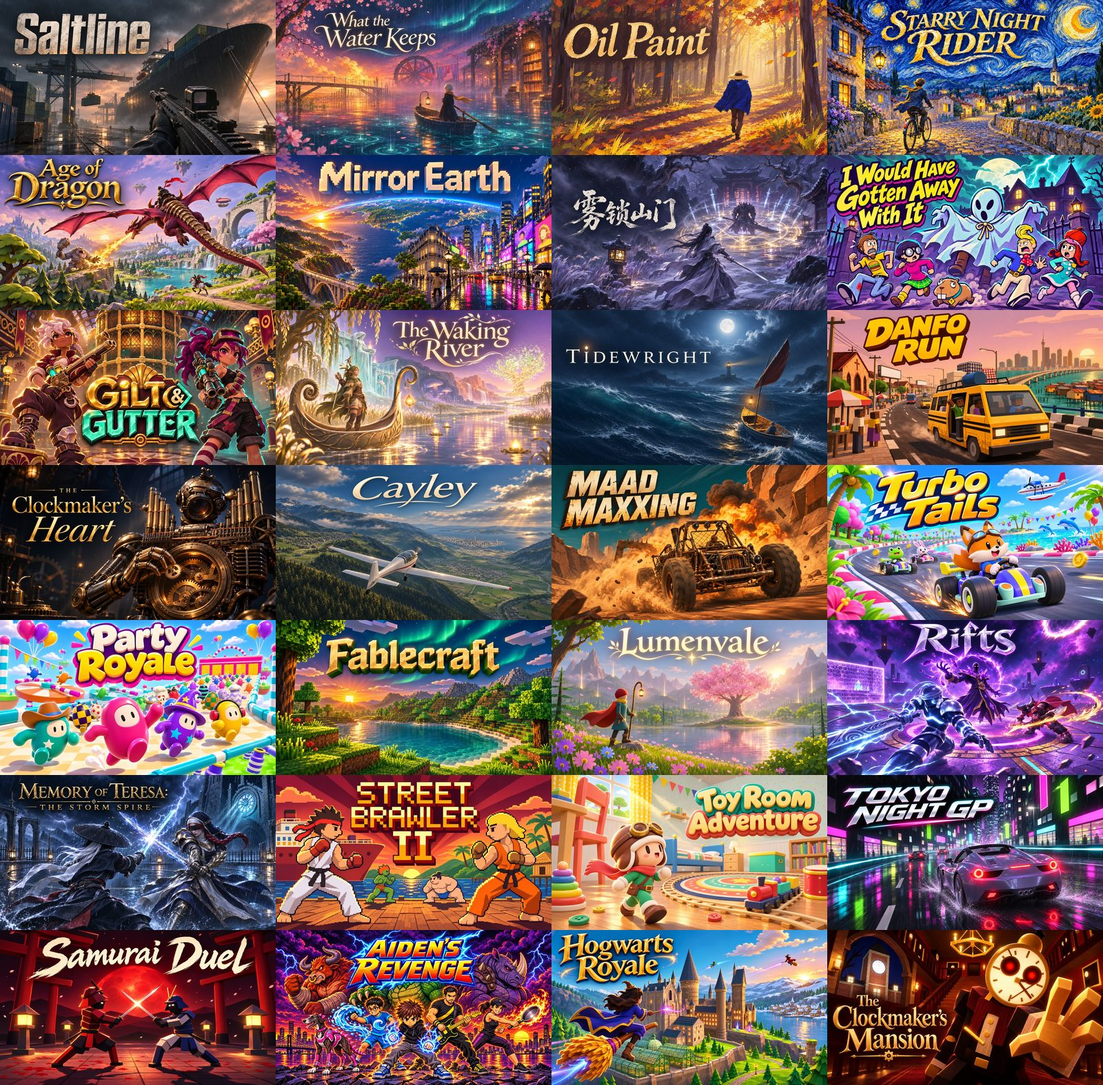
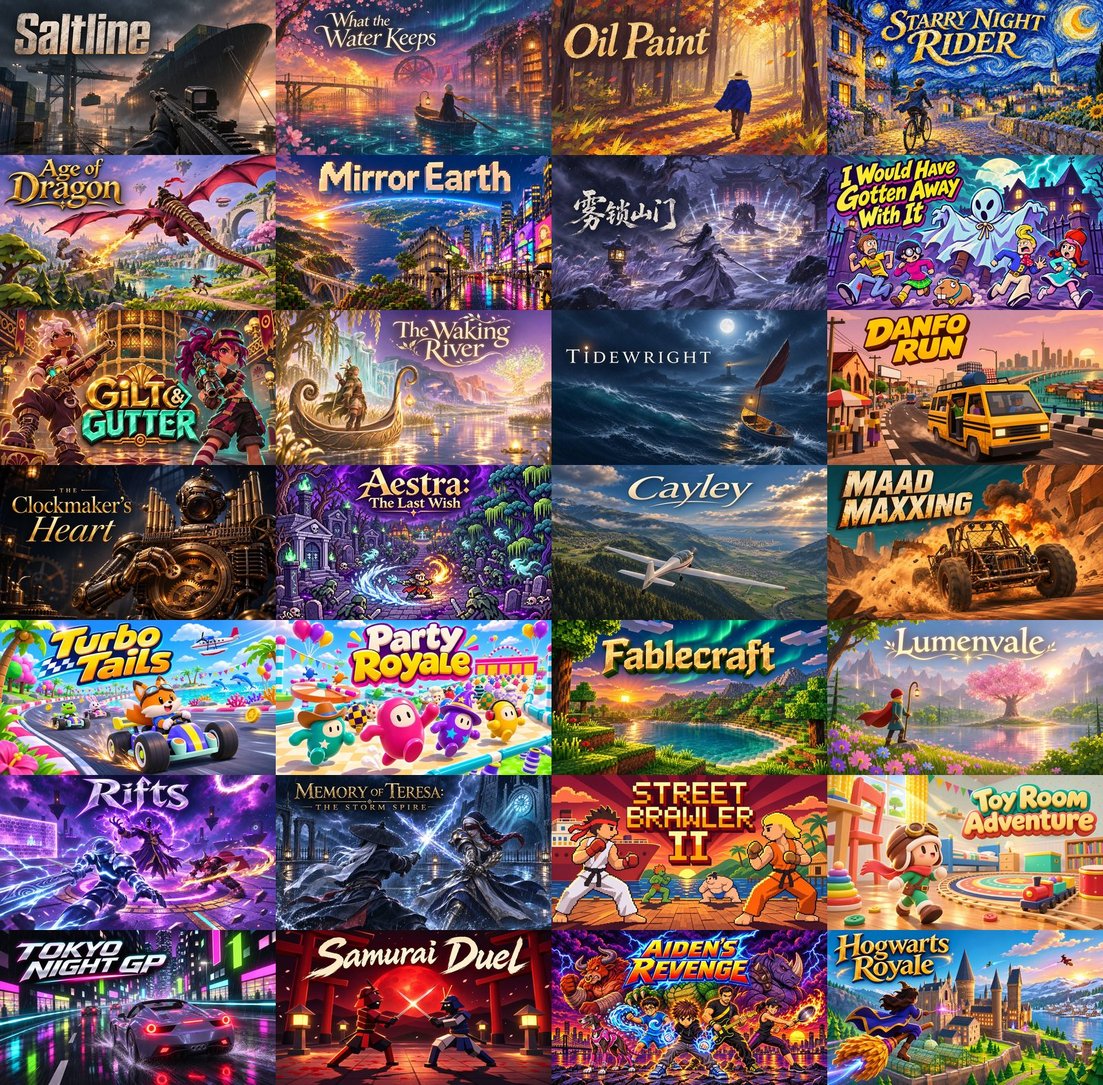
Add Aestra: The Last Wish, a permadeath online pixel RPG made with Opus 5.5 on Tesana

diff --git a/README.md b/README.md
@@ -1,12 +1,12 @@
 # Awesome Claude Fable Games
 
-[![Awesome](https://awesome.re/badge.svg)](https://awesome.re) ![Games](https://img.shields.io/badge/games-29-8a5cf6) ![Playable](https://img.shields.io/badge/playable_in_browser-20-22c55e) ![Prompts](https://img.shields.io/badge/verbatim_prompts-5-f59e0b) [![License: MIT](https://img.shields.io/badge/license-MIT-blue)](LICENSE)
+[![Awesome](https://awesome.re/badge.svg)](https://awesome.re) ![Games](https://img.shields.io/badge/games-30-8a5cf6) ![Playable](https://img.shields.io/badge/playable_in_browser-21-22c55e) ![Prompts](https://img.shields.io/badge/verbatim_prompts-5-f59e0b) [![License: MIT](https://img.shields.io/badge/license-MIT-blue)](LICENSE)
 
 <a href="https://vibegamer.io?utm_source=github&utm_medium=readme&utm_campaign=awesome-claude-fable-games"><img src="assets/mosaic.jpg" alt="A wall of covers for games made with Claude Fable 5.2: a wuxia mountain shrine, a Van Gogh bike ride, a desert car battle, a voxel Earth and more" width="100%"></a>
 
 A curated list of **games made with AI coding models**, most of them with Claude Fable 5.2, Anthropic's model released on November 9, 2026: browser games you can play right now, Unreal and Roblox projects, and one-prompt experiments. Each game names the model its maker says they used. Every game is credited to its maker and linked to the post where they shared it. Where the maker published the prompt, it's copied here word for word.
 
-**29 games · 20 playable in the browser · 5 with prompts** · Updated 2026-11-13
+**30 games · 21 playable in the browser · 5 with prompts** · Updated 2026-11-13
 
 Most games also have a page on **[vibegamer.io](https://vibegamer.io?utm_source=github&utm_medium=readme&utm_campaign=awesome-claude-fable-games)** with its trailer, screenshots and a play button.
 
@@ -39,6 +39,7 @@ Sorted by our score, then by likes on the original post.
 | <a href="#tidewright"><img src="assets/covers/tidewright.jpg" width="160" alt="Tidewright cover"></a> | **[Tidewright](#tidewright)** | [Felix Rieseberg](https://x.com/felixrieseberg) | Claude Fable 5.2 | [▶ Play](https://claude.ai/artifact/JTgyEMn7sn1q2riWrMb7D4) | [X](https://x.com/felixrieseberg/status/2119867839033352596) |  |  | 9/10 |
 | <a href="#danfo-run"><img src="assets/covers/danfo-run.jpg" width="160" alt="Danfo Run cover"></a> | **[Danfo Run](#danfo-run)** | [Eureka](https://x.com/eureka_seamless) | Claude (version not stated) | [▶ Play](https://danforun.com) | [X](https://x.com/eureka_seamless/status/2103938108668420286) | 36.8K |  | 8/10 |
 | <a href="#the-clockmakers-heart"><img src="assets/covers/the-clockmakers-heart.jpg" width="160" alt="The Clockmaker's Heart cover"></a> | **[The Clockmaker's Heart](#the-clockmakers-heart)** | [Felix Rieseberg](https://x.com/felixrieseberg) | Claude Fable 5.2 | [▶ Play](https://claude.ai/artifact/6MjtQjf4ee1ZZjEpafaEpa) | [X](https://x.com/felixrieseberg/status/2119867839033352596) | 283 |  | 8/10 |
+| <a href="#aestra-the-last-wish"><img src="assets/covers/aestra-the-last-wish.jpg" width="160" alt="Aestra: The Last Wish cover"></a> | **[Aestra: The Last Wish](#aestra-the-last-wish)** | [Mike Houser](https://x.com/M__Houser) | Claude Opus 5.5 (on Tesana) | [▶ Play](https://tesana.com/game/aestra-the-last-wish) | [X](https://x.com/M__Houser/status/2115438489995190285) | 281 |  | 8/10 |
 | <a href="#cayley"><img src="assets/covers/cayley.jpg" width="160" alt="Cayley cover"></a> | **[Cayley](#cayley)** | [Lionel Mora](https://x.com/lionel_mora) | Claude Fable 5.2 | [▶ Play](https://lauramionel.github.io/cayley-flight-simulator/) | [X](https://x.com/lionel_mora/status/2120554787812860294) | 280 |  | 8/10 |
 | <a href="#maad-maxxing"><img src="assets/covers/maad-maxxing.jpg" width="160" alt="MAAD MAXXING cover"></a> | **[MAAD MAXXING](#maad-maxxing)** | [Andrew Blumson](https://x.com/Andrew_Blumson) | Claude Fable 5.2 | [▶ Play](https://maad-maxxing.vercel.app) | [X](https://x.com/Andrew_Blumson/status/2120599812512833557) | 165 |  | 8/10 |
 | <a href="#turbo-tails"><img src="assets/covers/turbo-tails.jpg" width="160" alt="Turbo Tails cover"></a> | **[Turbo Tails](#turbo-tails)** | [Peter Yang](https://x.com/petergyang) | Claude Fable 5.2 | [▶ Play](https://turbo-tails.vercel.app) | [X](https://x.com/petergyang/status/2119901658394358005) | 137 | ✓ | 8/10 |
@@ -296,6 +297,24 @@ Wake a sleeping clockwork giant one gear puzzle at a time, a first draft by Clau
 - **Original post:** https://x.com/felixrieseberg/status/2119867839033352596 (283 likes, checked November 11, 2026)
 - **Tags:** Puzzle, 3D
 - **Trailer, screenshots and details:** [vibegamer.io/game/the-clockmakers-heart](https://vibegamer.io/game/the-clockmakers-heart?utm_source=github&utm_medium=readme&utm_campaign=awesome-claude-fable-games)
+
+<sub>Our score: 8/10 for visuals and polish.</sub>
+
+### Aestra: The Last Wish
+<a id="aestra-the-last-wish"></a>
+
+<a href="https://vibegamer.io/game/aestra-the-last-wish?utm_source=github&utm_medium=readme&utm_campaign=awesome-claude-fable-games"><img src="assets/covers/aestra-the-last-wish.jpg" alt="Aestra: The Last Wish: cover art" width="100%"></a>
+
+A permadeath pixel-art action RPG you play online with others: 9 classes, 100 levels, 3 raids and one life. Its maker quit his job, can't code, and built it with Opus 5.5 on the AI game maker Tesana; over 27,000 players so far.
+
+<p><img src="https://cdn.vibegamer.io/submissions/a656780e-dc68-4450-a3d3-fa33bc010e9d-aestra-the-last-wish-shot-1.jpg" width="32%" alt="Aestra: The Last Wish gameplay screenshot"> <img src="https://cdn.vibegamer.io/submissions/025fa76e-d387-404f-9c0e-21fa350ba898-aestra-the-last-wish-shot-2.jpg" width="32%" alt="Aestra: The Last Wish gameplay screenshot"> <img src="https://cdn.vibegamer.io/submissions/68bde02c-1179-4bd4-8a1d-a5c123f12a2e-aestra-the-last-wish-shot-3.jpg" width="32%" alt="Aestra: The Last Wish gameplay screenshot"></p>
+
+- **Made by:** Mike Houser ([@M__Houser](https://x.com/M__Houser))
+- **Model:** Claude Opus 5.5 (on Tesana)
+- **Play:** https://tesana.com/game/aestra-the-last-wish
+- **Original post:** https://x.com/M__Houser/status/2115438489995190285 (281 likes, 23.5K views, checked November 13, 2026)
+- **Tags:** RPG, Action, Multiplayer, 2D
+- **Trailer, screenshots and details:** [vibegamer.io/game/aestra-the-last-wish](https://vibegamer.io/game/aestra-the-last-wish?utm_source=github&utm_medium=readme&utm_campaign=awesome-claude-fable-games)
 
 <sub>Our score: 8/10 for visuals and polish.</sub>
 
